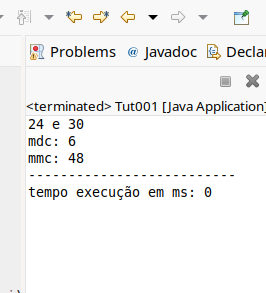
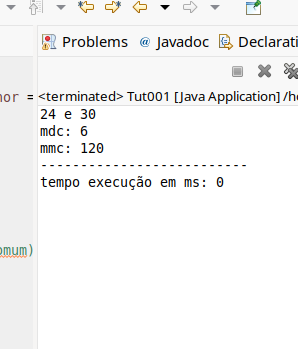
+

diff --git a/Exemplo_0010/maneira01/programa/Tut001.java b/Exemplo_0010/maneira01/programa/Tut001.java
@@ -45,7 +45,7 @@ public class Tut001 {
 		System.out.print("mdc: ");
 		System.out.println(mdc(n1, n2));
 		System.out.print("mmc: ");
-		System.out.println(mmc(16, 12));
+		System.out.println(mmc(n1, n2));
 		
 		
 		System.out.println("--------------------------");
@@ -65,7 +65,7 @@ public class Tut001 {
 /*
 24 e 30
 mdc: 6
-mmc: 48
+mmc: 120
 --------------------------
 tempo execução em ms: 0
 
